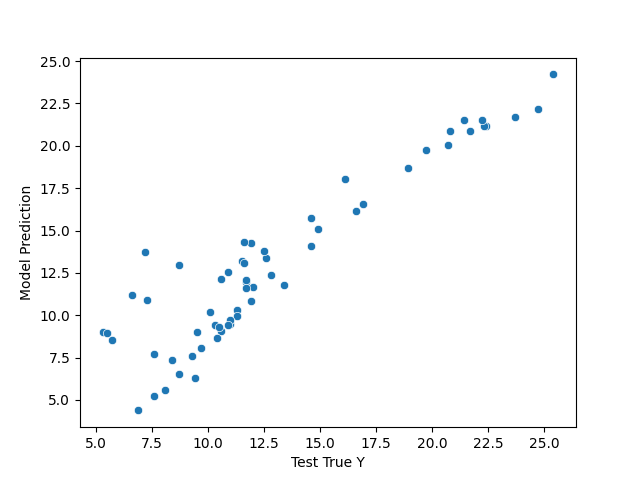
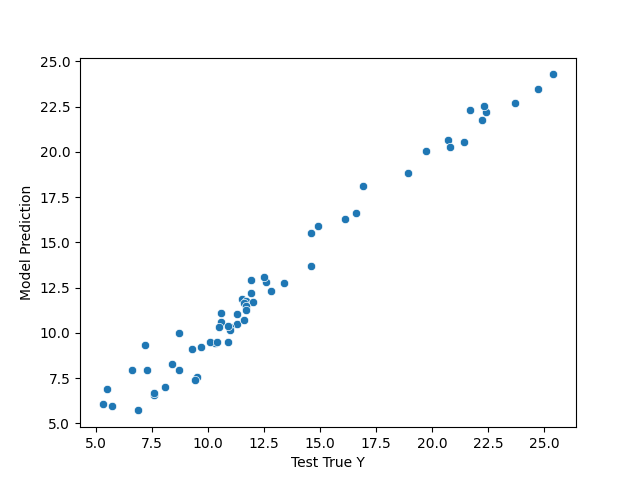
feat: save model

diff --git a/src/main.py b/src/main.py
@@ -1,11 +1,11 @@
 import pandas as pd
 import seaborn as sns
 import matplotlib.pyplot as plt
+from load_model import load_model
 
-from tensorflow.keras.layers import Dense
-from tensorflow.keras.models import Sequential
 from sklearn.preprocessing import MinMaxScaler
 from sklearn.model_selection import train_test_split
+from sklearn.metrics import mean_absolute_error, mean_squared_error
 
 df = pd.read_csv('resources/advertising.csv')
 
@@ -21,14 +21,7 @@ scaler.fit(X_train)
 X_train = scaler.transform(X_train)
 X_test = scaler.transform(X_test)
 
-model = Sequential()
-
-model.add(Dense(4, activation='relu'))
-model.add(Dense(4, activation='relu'))
-model.add(Dense(4, activation='relu'))
-model.add(Dense(1))
-
-model.compile(optimizer='rmsprop', loss='mse')
+model = load_model()
 
 model.fit(x=X_train, y=y_train, epochs=500)
 
@@ -40,5 +33,15 @@ predictions_df = pd.concat([predictions_df, predictions], axis=1)
 predictions_df.columns = ['Test True Y', 'Model Prediction']
 
 sns.scatterplot(x='Test True Y', y='Model Prediction', data=predictions_df)
+
+print()
+print('Mean Absolute Error (MAE):', mean_absolute_error(predictions_df['Test True Y'], predictions_df['Model Prediction']))
+print('Mean Squared Error (MSE):', mean_squared_error(predictions_df['Test True Y'], predictions_df['Model Prediction']))
+print('Root Mean Squared Error (RMSE):', mean_squared_error(predictions_df['Test True Y'], predictions_df['Model Prediction'])**0.5)
+print()
+print(df.describe())
+print()
+
+model.save('storage/advertising-model.keras')
 
 plt.show()

diff --git a/src/load_model.py b/src/load_model.py
@@ -1,0 +1,23 @@
+from os.path import exists
+
+import tensorflow.keras.models as keras
+from tensorflow.keras.layers import Dense
+
+def load_model():
+  model_exists = exists('storage/advertising-model.keras')
+
+  if (model_exists):
+    print('loading advertising-model.keras')
+    return keras.load_model('storage/advertising-model.keras')
+
+  print('creating new model')
+  model = keras.Sequential()
+
+  model.add(Dense(4, activation='relu'))
+  model.add(Dense(4, activation='relu'))
+  model.add(Dense(4, activation='relu'))
+  model.add(Dense(1))
+
+  model.compile(optimizer='rmsprop', loss='mse')
+
+  return model

diff --git a/README.md b/README.md
@@ -14,3 +14,25 @@
 The model needs more training to be more precise:
 
 <img src="resources/predictions.png" width="500px">
+<img src="resources/mae-mse-rmse.png" width="500px">
+
+## Running
+
+To run the model first create a new Python environment and activate it. I'm using [Anaconda](https://www.anaconda.com/) for that:
+
+```shell
+conda create -n advertising_env python=3.11
+conda activate advertising_env
+```
+
+Now install all the project dependencies:
+
+```shell
+make install-all
+```
+
+And run the model:
+
+```shell
+make model
+```
